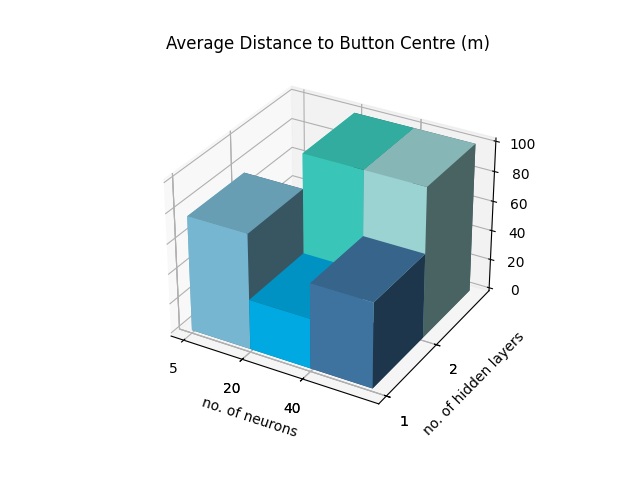
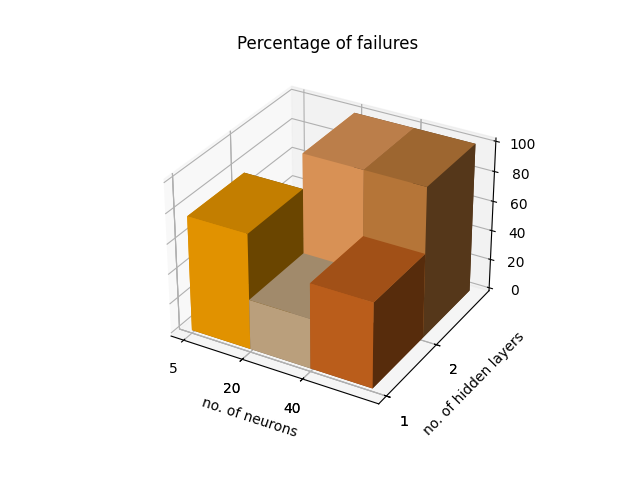
plots for the last results

Changed region(s): [[0.2812, 0.2188, 0.75, 0.8125], [0.25, 0.0625, 0.7812, 0.125]]

diff --git a/catkin_ws/devel/lib/morf_ik/results/plot_all_results.py b/catkin_ws/devel/lib/morf_ik/results/plot_all_results.py
@@ -11,14 +11,16 @@ import pandas as pd
 filepath = "./devel/lib/morf_ik/results/"
 filename_eqs = filepath + "eqs/successes.data"
 names = ["IK\n equations", \
-        "4 div.\n equations", \
-        "5 div.\n equations", \
-        "4 div.\n simulation", \
-        "5 div.\n simulation"]
-filename_nn = [filepath + "4div/batch_01_05_01_50000_02_09/results.data", filepath + "5div/batch_02_10_01_50000_02_09/results.data", \
-                filepath + "4div_babbling/batch_02_10_01_50000_02_09/results.data", filepath + "5div_babbling/batch_01_10_01_50000_02_09/results.data"]
+        "ANN\n equations", \
+        "ANN\n simulation", \
+        "ANN\n real"]
+filename_nn = [filepath + "4div/batch_01_05_01_50000_02_09/results.data", \
+                filepath + "4div_babbling/batch_02_10_01_50000_02_09/results.data", filepath + "3div_real/batch_01_10_01_50000_02_09/results.data"]
 
 n = len(names)
+
+names2 = ["4 div.", \
+        "5 div."]
 
 reader = csv.reader(open(filename_eqs), delimiter="\t")
 data_eqs = list(reader)
@@ -68,6 +70,7 @@ for i in range(n-1):
 
     aux_dev = []
     aux_dur = []
+    aux_dist = []
 
 dev = []
 
@@ -75,7 +78,6 @@ for i in range(n-1):
     dur.append(statistics.mean(dur_nn[i]))
     dist.append(statistics.mean(dist_nn[i]))
     dev.append(statistics.mean(dev_nn[i]))
-
 
 # size = (12,7)
 
@@ -85,7 +87,7 @@ ax = plt.axes()
 ax.tick_params(axis='both', which='major', labelsize=12)
 ax.tick_params(axis='both', which='minor', labelsize=12)
 # plt.title("Average Calculations Duration (ns)")
-plt.bar(names, dur, color=['mediumaquamarine', 'skyblue', 'skyblue', 'deepskyblue', 'deepskyblue'])
+plt.bar(names, dur, color=['mediumaquamarine', 'skyblue', 'deepskyblue', 'steelblue'])
 plt.savefig(filepath + "duration.png")
 plt.close()
 
@@ -94,34 +96,34 @@ ax = plt.axes()
 ax.tick_params(axis='both', which='major', labelsize=12)
 ax.tick_params(axis='both', which='minor', labelsize=12)
 # plt.title("Average Distance to Button Centre (m)")
-plt.bar(names, dist, color=['mediumaquamarine', 'skyblue', 'skyblue', 'deepskyblue', 'deepskyblue'])
+plt.bar(names, dist, color=['mediumaquamarine', 'skyblue', 'deepskyblue', 'steelblue'])
 plt.savefig(filepath + "distance.png")
 plt.close()
 
-plt.figure()
-ax = plt.axes()
-ax.tick_params(axis='both', which='major', labelsize=12)
-ax.tick_params(axis='both', which='minor', labelsize=12)
-# plt.title("Neural Networks Deviation from Equations (rad)")
-plt.bar(names[1:n], dev, color=['skyblue', 'skyblue', 'deepskyblue', 'deepskyblue'])
-plt.savefig(filepath + "deviation.png")
-plt.close()
+# plt.figure()
+# ax = plt.axes()
+# ax.tick_params(axis='both', which='major', labelsize=12)
+# ax.tick_params(axis='both', which='minor', labelsize=12)
+# # plt.title("Neural Networks Deviation from Equations (rad)")
+# plt.bar(names[1:n], dev, color=['skyblue', 'skyblue', 'deepskyblue', 'deepskyblue'])
+# plt.savefig(filepath + "deviation.png")
+# plt.close()
 
+# size = (5,5)
+# plt.figure(figsize=size)
+# ax = plt.axes()
+# ax.tick_params(axis='both', which='major', labelsize=12)
+# ax.tick_params(axis='both', which='minor', labelsize=12)
+# # plt.title("Neural Networks Deviation from Equations (rad)")
+# plt.bar(names2, dev[0:2], color=['skyblue', 'deepskyblue'])
+# plt.savefig(filepath + "dev_nn_eqs.png")
+# plt.close()
 
-plt.figure()
-ax = plt.axes()
-ax.tick_params(axis='both', which='major', labelsize=12)
-ax.tick_params(axis='both', which='minor', labelsize=12)
-# plt.title("Neural Networks Deviation from Equations (rad)")
-plt.bar(names[1:3], dev[0:2], color=['skyblue', 'deepskyblue'])
-plt.savefig(filepath + "dev_nn_eqs.png")
-plt.close()
-
-plt.figure()
-ax = plt.axes()
-ax.tick_params(axis='both', which='major', labelsize=12)
-ax.tick_params(axis='both', which='minor', labelsize=12)
-# plt.title("Neural Networks Deviation from Equations (rad)")
-plt.bar(names[1:3], dur[0:2], color=['skyblue', 'deepskyblue'])
-plt.savefig(filepath + "dur_nn_eqs.png")
-plt.close()
+# plt.figure(figsize=size)
+# ax = plt.axes()
+# ax.tick_params(axis='both', which='major', labelsize=12)
+# ax.tick_params(axis='both', which='minor', labelsize=12)
+# # plt.title("Neural Networks Deviation from Equations (rad)")
+# plt.bar(names2, dur[0:2], color=['skyblue', 'deepskyblue'])
+# plt.savefig(filepath + "dur_nn_eqs.png")
+# plt.close()

diff --git a/catkin_ws/devel/lib/morf_ik/results/plot_real.py b/catkin_ws/devel/lib/morf_ik/results/plot_real.py
@@ -1,0 +1,67 @@
+import numpy as np
+import matplotlib.pyplot as plt
+import csv
+import os.path
+from os import path
+
+fails = []
+# filenames = ["./devel/lib/morf_ik/results/3div_real/batch_01_05_01_50000_02_09/failures.data", \
+#             "./devel/lib/morf_ik/results/3div_real/batch_01_10_01_50000_02_09/failures.data", \
+#             "./devel/lib/morf_ik/results/3div_real/batch_02_10_01_50000_02_09/failures.data"]
+
+filenames = ["./devel/lib/morf_ik/results/3div_real/batch_01_05_01_50000_02_09/failures.data", \
+            "./devel/lib/morf_ik/results/3div_real/batch_01_10_01_50000_02_09/failures.data", \
+            "./devel/lib/morf_ik/results/3div_real/batch_02_10_01_50000_02_09/failures.data", \
+            "./devel/lib/morf_ik/results/4div_real/batch_01_05_01_50000_02_09/failures.data", \
+            "./devel/lib/morf_ik/results/4div_real/batch_01_10_01_50000_02_09/failures.data", \
+            "./devel/lib/morf_ik/results/4div_real/batch_02_10_01_50000_02_09/failures.data"]
+
+
+filepath = "./devel/lib/morf_ik/results/3div_real/"
+
+n = len(filenames)
+
+for i in range(n):
+    reader = csv.reader(open(filenames[i]), delimiter="\t")
+    data = list(reader)
+
+    fails.append(len(data)/30.0*100)
+
+# size = (5,4)
+# plt.figure(figsize=size)
+# ax = plt.axes()
+# ax.set_xlabel('no. of neurons')
+# ax.set_ylabel('percentage of failures')
+# plt.bar(['5', '20', '40', '20', '40'], fails, color=['skyblue', 'deepskyblue', 'steelblue'])
+# plt.savefig("./devel/lib/morf_ik/results/1div/fails.png")
+# plt.close()
+
+# y_labels = [1, 1, 2]
+# x_labels = [5, 10, 10]
+x_labels = ["1 layer\n 5 neurons", "1 layer\n 10 neurons", "     2 layers\n       10 neurons", "", "", ""]
+y_labels = [3, "", "", 4, "", ""]
+
+# y = [1, 1, 2]
+# x = [1, 2, 2]
+
+x = [1, 2, 3, 1, 2, 3]
+y = [2, 2, 2, 1, 1, 1]
+z = np.zeros(n)
+dx = np.ones(n)
+dy = np.ones(n)    
+
+plt.rcParams.update({'font.size': 12})
+
+size = (6,6)
+plt.figure(figsize=size)
+ax = plt.axes(projection='3d')
+ax.set_xticklabels(x_labels)
+ax.set_yticklabels(y_labels)
+ax.set_xticks(x)
+ax.set_yticks(y)
+ax.set_xlabel('configuration', labelpad=20)
+ax.set_ylabel('no. of divisions', labelpad=7)
+plt.title("Percentage of failures")
+ax.bar3d(x, y, z, dx, dy, fails, color=['orange', 'wheat', 'tan', 'chocolate', 'sandybrown', 'peru'])
+plt.savefig(filepath+"fails.png")
+plt.close()

diff --git a/catkin_ws/devel/lib/morf_ik/results/plot_1div.py b/catkin_ws/devel/lib/morf_ik/results/plot_1div.py
@@ -45,7 +45,7 @@ ax.set_xticks(x)
 ax.set_yticks(y)
 ax.set_ylabel('no. of hidden layers')
 ax.set_xlabel('no. of neurons')
-plt.title("Average Distance to Button Centre (m)")
-ax.bar3d(x, y, z, dx, dy, fails, color=['skyblue', 'deepskyblue', 'steelblue', 'turquoise', 'paleturquoise'])
+plt.title("Percentage of failures")
+ax.bar3d(x, y, z, dx, dy, fails, color=['orange', 'tan', 'chocolate', 'sandybrown', 'peru'])
 plt.savefig("./devel/lib/morf_ik/results/1div/fails.png")
 plt.close()
